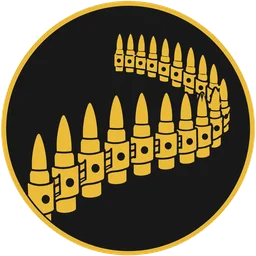
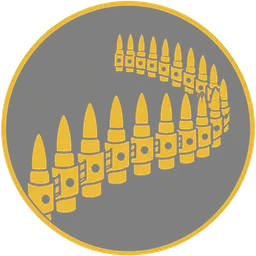
fix(ui): 換槍鈕整顆移出血條右端（不遮 hp 條）＋徽章黑底烘成半透明 ver -550

diff --git a/modules/combat.js b/modules/combat.js
@@ -692,15 +692,17 @@ function layoutClasp(){
      （壓進血條左端；月牙圖層本來就在 HP 之下（-526），被蓋住的那一角是刻意的）。
      -540/-541 的月角/臂厚錨定作廢。 */
   const Hm=1.548*S, Wm=Hm*MOON.ar;
-  const OVER=0.290*S;                        // 月/鈕壓進血條端點的量（未命名-2 量出）
+  const OVER=0.290*S;                        // 月壓進血條左端的量（未命名-2 量出）
+  const GAPB=0.05*S;                         // 鈕與血條右端的縫（-550，Ray：「不要遮到 hp 條」）
   const top=rr.y-0.516*S, left=BL+OVER-Wm;
-  /* 血條右側讓位（-549）：鈕與月同大，鏡射後會伸出血條右端 (Wm-OVER)——
-     不讓位的話鈕會伸出畫面。讓位量改變血條 rect，所以改了就重跑一次重量。
+  /* 血條右側讓位（-549；-550 改「整顆讓開」）：鈕與月同大，但月在血條**之下**
+     壓著左端無妨，鈕在血條**之上**（要點擊）—— 蓋到會遮住血量，所以鈕整顆
+     排在血條右端之外。讓位量改變血條 rect，改了就重跑一次重量。
      鈕藏著（單一類別／試玩版教學）就不讓，血條照舊放滿。 */
   const btn=document.getElementById('wpSwitch');
   const stack=document.getElementById('barStack');
   if(stack){
-    const want=(btn && btn.style.display!=='none') ? Math.round(Wm-OVER)+'px' : '0px';
+    const want=(btn && btn.style.display!=='none') ? Math.round(Wm+GAPB)+'px' : '0px';
     if((stack.style.marginRight||'0px')!==want){
       stack.style.marginRight=want; claspSig=''; setTimeout(layoutClasp,30); return;
     }
@@ -710,12 +712,12 @@ function layoutClasp(){
     el.style.left=(left-hr.x)+'px'; el.style.top=(top-hr.y)+'px';
     el.style.width=Wm+'px'; el.style.height=Hm+'px';
   }
-  /* 副武器切換鈕（ver -549，Ray：「讓切換鈕與月大小位置對稱」）：
-     盒＝月牙的盒以**血條水平中軸**鏡射；圓卡直徑＝盒的短邊。
+  /* 副武器切換鈕（ver -549「與月大小位置對稱」；-550 改貼在血條右端**之外**）：
+     盒＝與月牙同大、同頂線，左緣＝血條右端＋GAPB；圓卡直徑＝盒的短邊。
      幾何只算這一處（鐵律 7），weapon.js 只管卡面內容與行為。 */
   if(btn){
     const bb2=btn.offsetParent?btn.offsetParent.getBoundingClientRect():{x:0,y:0};
-    const mirL=(br.left+br.right)-(left+Wm);
+    const mirL=br.right+GAPB;
     btn.style.left=(mirL-bb2.x)+'px'; btn.style.top=(top-bb2.y)+'px';
     btn.style.width=Wm+'px'; btn.style.height=Hm+'px';
     const wc=btn.querySelector('.ws-card'); const d=Math.round(Math.min(Wm,Hm));

diff --git a/style.css b/style.css
@@ -348,11 +348,14 @@
     display:flex;align-items:center;justify-content:center;
     pointer-events:auto;touch-action:manipulation;cursor:pointer;
     overflow:visible;perspective:200px;}
+  /* -550（Ray：「黑色的部份做成半透明」）：暗部的半透明烘在徽章圖的 alpha 裡，
+     卡面自己不能再鋪深底（會把透明度吃回來）；金環是圖自帶的，卡的邊框退場
+     （留 1px 透明佔位 —— .pending 的藍環要有邊可以上色）。 */
   #wpSwitch .ws-card{width:46px;height:46px;border-radius:50%;
     display:flex;align-items:center;justify-content:center;
-    color:var(--gold);background:rgba(10,8,14,.66);
-    border:1px solid var(--gold-dim);
-    box-shadow:0 0 10px rgba(0,0,0,.6), inset 0 0 8px rgba(240,196,105,.14);
+    color:var(--gold);background:transparent;
+    border:1px solid transparent;
+    box-shadow:0 0 10px rgba(0,0,0,.35);
     transform-style:preserve-3d;backface-visibility:hidden;transition:transform .08s;}
   #wpSwitch .ws-card img{width:100%;height:100%;display:block;border-radius:50%;
     filter:drop-shadow(0 1px 2px #000);}

diff --git a/config.js b/config.js
@@ -16,7 +16,7 @@ import { ART } from './script/speakers.js';
 
 /* 版本號：顯示於診斷 HUD（首頁連點團徽 5 下開啟），每次部署遞增尾碼——
  *  用來確認手機（尤其 iOS 主畫面 App 的頑固快取）實際跑到的是哪一版。 */
-export const VERSION = 'ver 2026.08.28-549';
+export const VERSION = 'ver 2026.08.28-550';
 
 export const GAME_CONFIG = {
 
